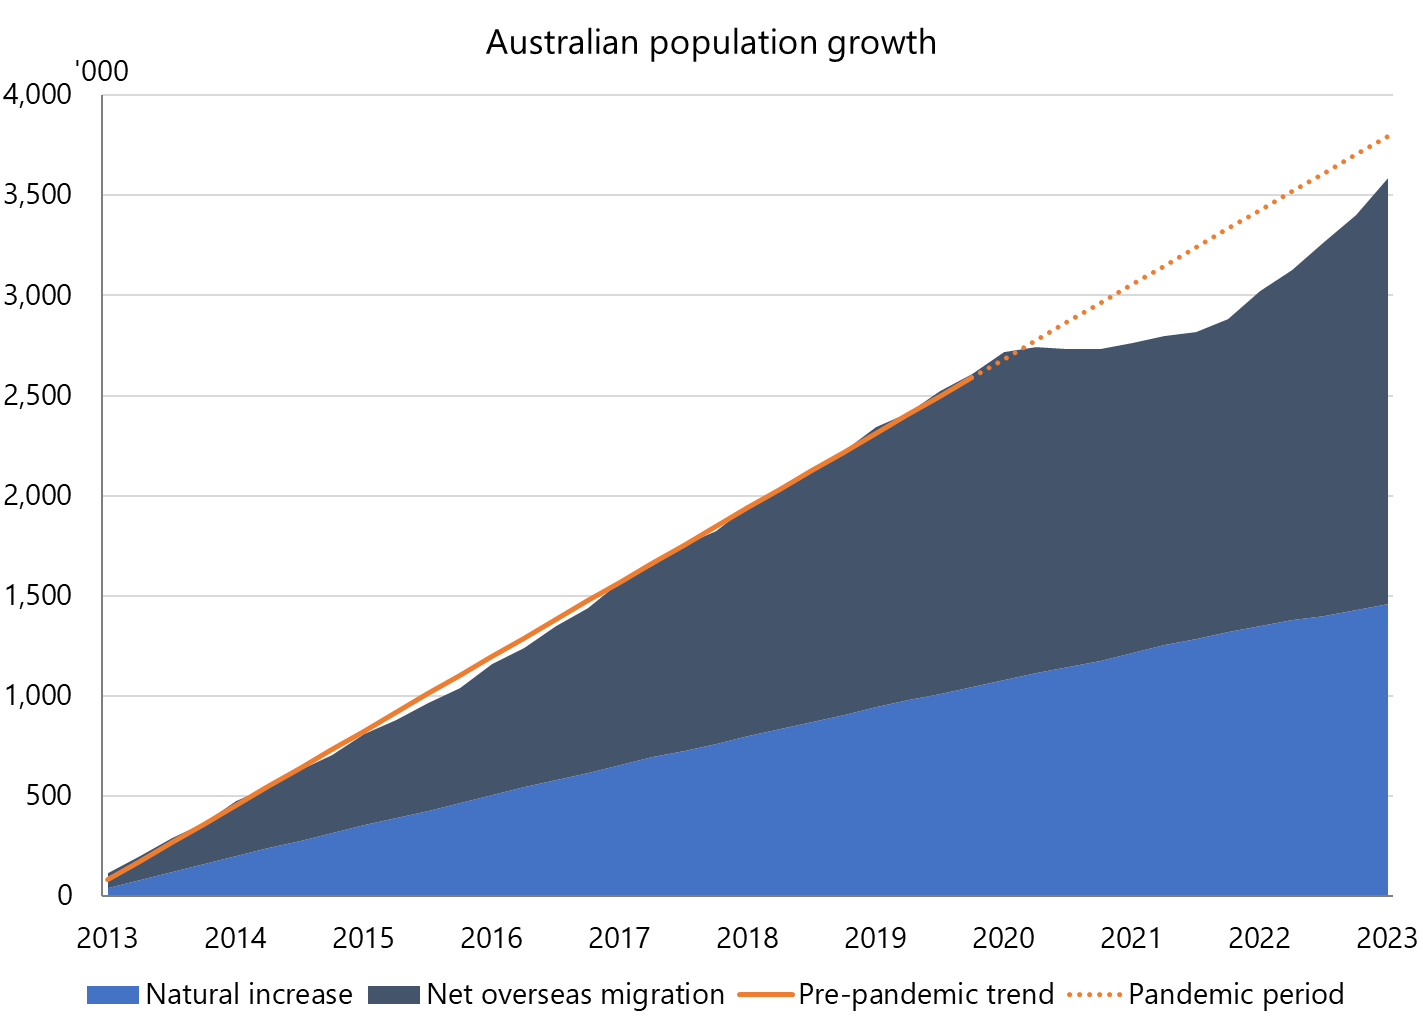
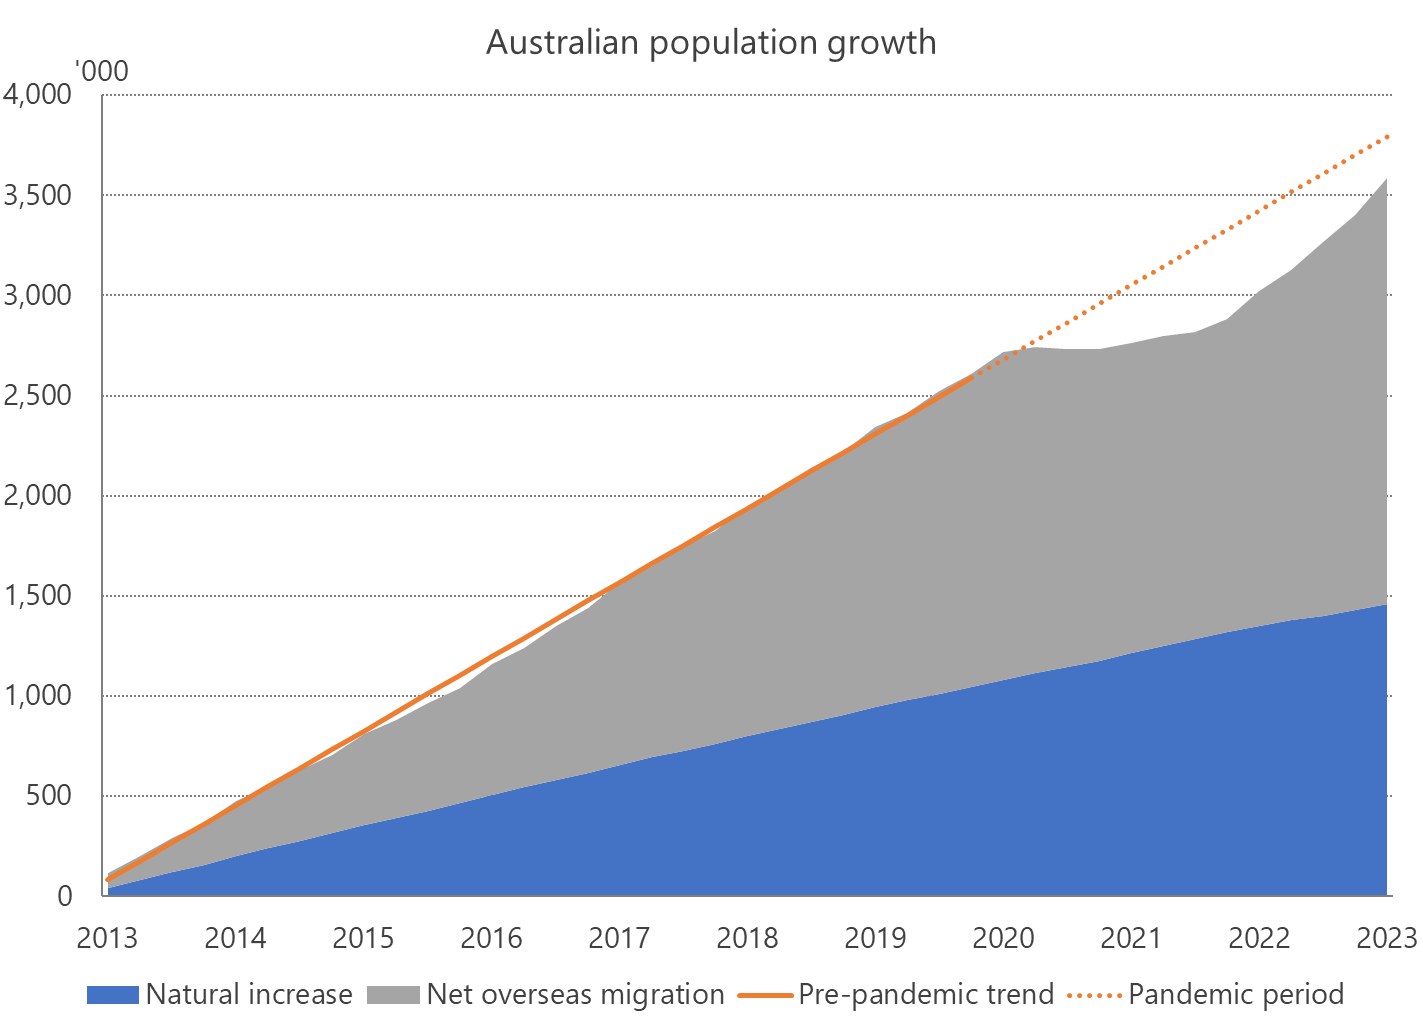
New colour friendly images

diff --git a/static/style.css b/static/style.css
@@ -6,6 +6,10 @@ body:not(.light-theme) .subscribe-form {
 	filter: invert(1);
     -webkit-filter: invert(1);
 }
+body:not(.light-theme) article img {
+	filter: invert(1);
+    -webkit-filter: invert(1);
+}
 .logo img {
     height: 55px; width: 78px; }
 .header {

diff --git a/content/posts/migration-fearmongering-helps-no-one.md b/content/posts/migration-fearmongering-helps-no-one.md
@@ -29,7 +29,7 @@ To see why they are wrong, it's best to start with the ABS' accompanying [media 
 
 Sometimes it helps to use a counterfactual -- how might have Australia's population have looked had the pandemic never happened? The following chart shows Australia's annual population growth, along with a few markers to show just how big of an impact the pandemic's border closures had on the country.
 
-![Chart showing Australia's annual population growth.](/images/aus-annual-pop-jun-23.jpg) *It looks big, but the recent growth is more statistical quirk than permanent policy change.*
+![Chart showing Australia's annual population growth.](/images/aus-annual-pop-jun-23.png) *It looks big, but the recent growth is more statistical quirk than permanent policy change.*
 
 You'll notice the dashed orange line is still below the dashed blue line -- despite the recent surge, average population growth since the borders were slammed shut and then reopened is still below where it would have been had the pandemic never happened, assuming no change to Australia's migration policy.
 
@@ -37,11 +37,11 @@ You'll notice the dashed orange line is still below the dashed blue line -- desp
 
 The next chart shows this in terms of cumulative population growth. As of June 2023, we were still about 180,000 people *below* where we would have been if the 10-year, pre-pandemic trend had simply continued. I've also extrapolated both lines out to 2027 using their linear trends, which is essentially what the media articles above are doing to reach their conclusions. 
 
-![Chart showing Australia's cumulative population growth since the pandemic.](/images/aus-cumulative-pop-jun-23.jpg) *The dashed orange line should flatten and converge to the dashed blue line, rather than continue on at its current rate.*
+![Chart showing Australia's cumulative population growth since the pandemic.](/images/aus-cumulative-pop-jun-23.png) *The dashed orange line should flatten and converge to the dashed blue line, rather than continue on at its current rate.*
 
 Even under the extremely unlikely scenario where the current trend of population growth continues -- as mentioned earlier, the recent surge in population growth is due to the arrival of temporary migrants (e.g., students, backpackers) without the normal outflow of those people as they finished their degrees or used up their working holiday visas -- we still wouldn't reach where we would have been without the pandemic until the middle of next year. In other words, today's housing and infrastructure may have been even more stressed in a world where the pandemic never happened!
 
-![Chart showing overseas student numbers falling and rising again](/images/aus-students-jun-23.jpg) *We're still seeing the effects of the pandemic in the data -- new overseas students aren't being offset by departures.*
+![Chart showing overseas student numbers falling and rising again](/images/aus-students-jun-23.png) *We're still seeing the effects of the pandemic in the data -- new overseas students aren't being offset by departures.*
 
 But for all the fearmongering, a much more likely scenario is that net migration tapers off over the next year as temporary migrants start leaving the country, with Australia's population converging to a level close to the pre-pandemic trend. We may even fall below that trend -- the Australian government's new [Migration Strategy](https://immi.homeaffairs.gov.au/what-we-do/migration-strategy) looks to make temporary migration more difficult, and with the government's permanent migration quota currently [fixed at the](https://immi.homeaffairs.gov.au/what-we-do/migration-program-planning-levels) "pre-COVID planning level of 190,000", there won't be a rise in permanent migrants to offset that policy change.
 

diff --git a/content/posts/dont-blame-immigrants-for-the housing-mess.md b/content/posts/dont-blame-immigrants-for-the housing-mess.md
@@ -45,7 +45,7 @@ The RBA further aggravated this demand shock by cutting rates to zero, [giving b
 
 So, what happened? People responded to these incentives, knocked down their houses, and then needed a rental to live in while it was being built. This effect, combined with the rise of short-term accommodation platforms such as Airbnb, and a desire for [more space](https://www.rba.gov.au/publications/bulletin/2023/mar/a-new-measure-of-average-household-size.html) due to pandemic-related health restrictions and the 'work from home revolution', put enormous pressure on the rental market.
 
-![Chart showing building approvals and demolitions.](/images/approvals-demos-sep-23.jpg) *When you pay people to knock their houses down, don't be surprised when they do it.*
+![Chart showing building approvals and demolitions.](/images/approvals-demos-sep-23.png) *When you pay people to knock their houses down, don't be surprised when they do it.*
 
 Rising housing costs caused by this government-induced shock are a *relative* price change; houses have gone up in value compared to most other goods and services in the economy. It has nothing to do with the persistent inflation we're experiencing today, which is due to fiscal and monetary policy errors. Contra Costello, immigrants and house/rental prices are not "driving inflation", as higher expenses in that area should mean people have less money to spend elsewhere, causing prices to stabilise or fall in the rest of the economy. 
 
@@ -60,6 +60,6 @@ Unfortunately, there are no easy answers that will fix the mess in the short run
 
 And we haven't been very good at that in recent years.
 
-![Chart showing building completions.](/images/dwellings-completed-sep-23.jpg) *Despite huge demand, we haven't been able to complete much new housing.*
+![Chart showing building completions.](/images/dwellings-completed-sep-23.png) *Despite huge demand, we haven't been able to complete much new housing.*
 
 The ongoing housing and rental crisis will take time to resolve. Immigrants might prove to be an easy scapegoat, but they're not why our housing market is in the mess it's in today, and they're also not making inflation worse. The best thing local, state and federal governments can do from here to fix the crisis is clear the artificial barriers holding up construction and *let us build*.
